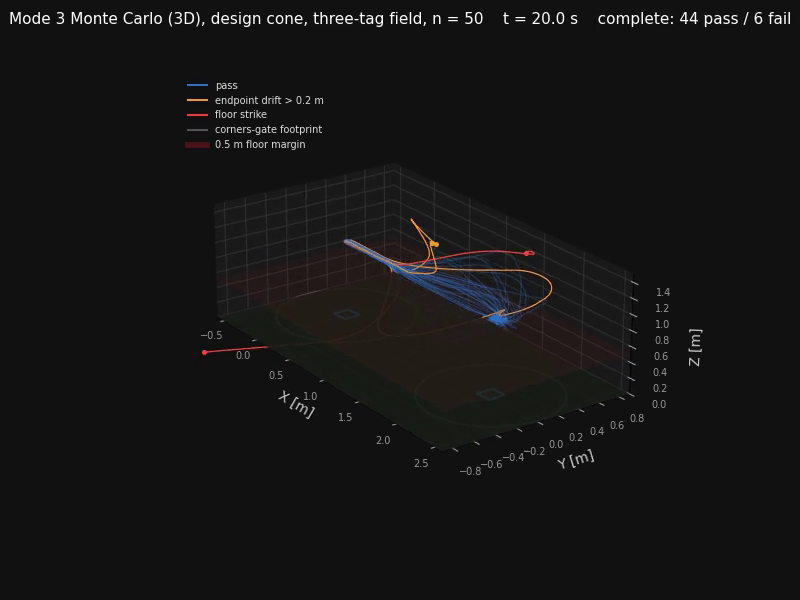
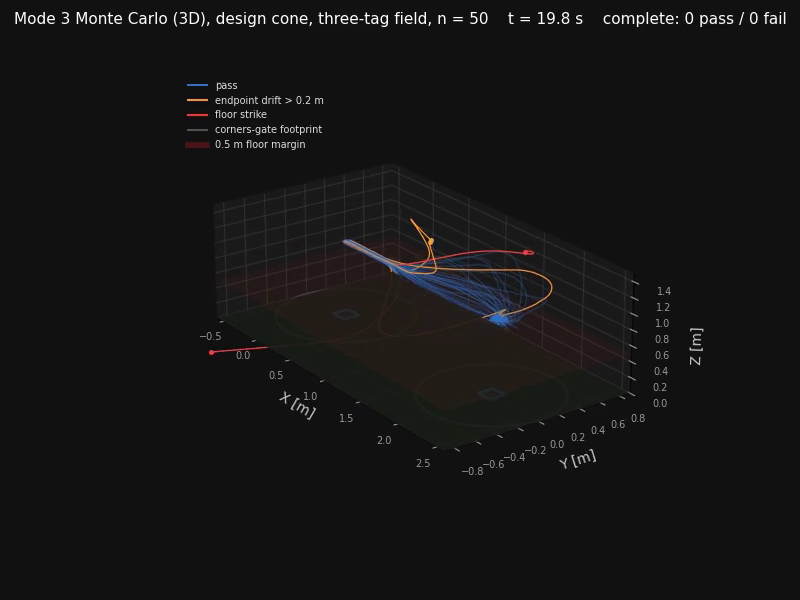
Swap in final-frame posters for the localization animations
All eight animation posters come from ltmps/ORBES-sim portfolio-media
(50d04da) and now show completed outcome tallies. The onboard tag-camera
poster shows a fresh fix with a NOMINAL supervisor. Every poster matches its
manifest hash, and the pinned hashes are updated.

Claude-Session: https://claude.ai/code/session_015ibRcdThR2UbWCbupTap9L

diff --git a/assets/media/modeling/localization/README.md b/assets/media/modeling/localization/README.md
@@ -16,7 +16,7 @@ Added 2026-10-26 from `portfolio-media` head 5a122d1 (Gavin-approved, producing 
 |---|---|---|
 | mc_mode3_design.mp4 | src/mc_anim.py | 9.9 s animation of 50 design-cone (44.3 x 33.6 deg) Mode 3 runs on the three-tag field, top and side views, colored by outcome: 44 pass, 6 fail |
 | mc_mode3_design_3d.mp4 | src/mc_anim3d.py | The same 50 runs from an orbiting 3D camera |
-| mc_mode3_design_poster.png, mc_mode3_design_3d_poster.png | ffmpeg final frame | Posters taken from the last frame of each MP4 here, so they show the complete outcome count. They are not part of the manifest. |
+| mc_mode3_design_poster.png, mc_mode3_design_3d_poster.png | ffmpeg final frame | Final-frame posters; since 50d04da these are the manifest's own files. |
 
 Added 2026-10-26 from `portfolio-media` head 74ffda3 (Gavin-approved, producing commit c78430b): `mc_mode3_design_mj.mp4` and `mc_mode3_design_mj_poster.png` (src/mc_anim_mj.py). They show the same 50 design-cone runs rendered in the MuJoCo scene as a fleet with outcome-colored trails over the tag field, seen from an orbiting camera. Both match the manifest hashes, and the poster is the manifest's own file.
 
@@ -33,3 +33,5 @@ The PNGs are published instead of the SVGs because the branch stores the SVGs wi
 Run totals come from the manifest: 910 design-cone runs and 2,907 measured-cone runs, 3,817 in all. Conditions: 1 m altitude, 0.149 m tag, corners-in-view gate, 28.8 x 21.4 deg measured worst-side cone, 0.075 s fix latency, LSM6DS-class IMU with bench calibration, mass randomized from 1.98 to 2.7 kg against a fixed 2.7 kg controller model, and camera extrinsics perturbed by up to 1 deg and 5 mm per axis.
 
 `mc2_results.csv`, `mc2_summary.md` and `mc2_traces.npz` are not published. All results are simulation, not hardware flights.
+
+On 2026-10-27 every animation poster was replaced from `portfolio-media` head 50d04da (src/final_posters.py). The posters now show completed tallies: the MuJoCo renders were re-rendered one frame past episode end, and the two plot animations use their final frames. The onboard POV poster now shows a fresh fix with a NOMINAL supervisor. All poster hashes match the manifest.
